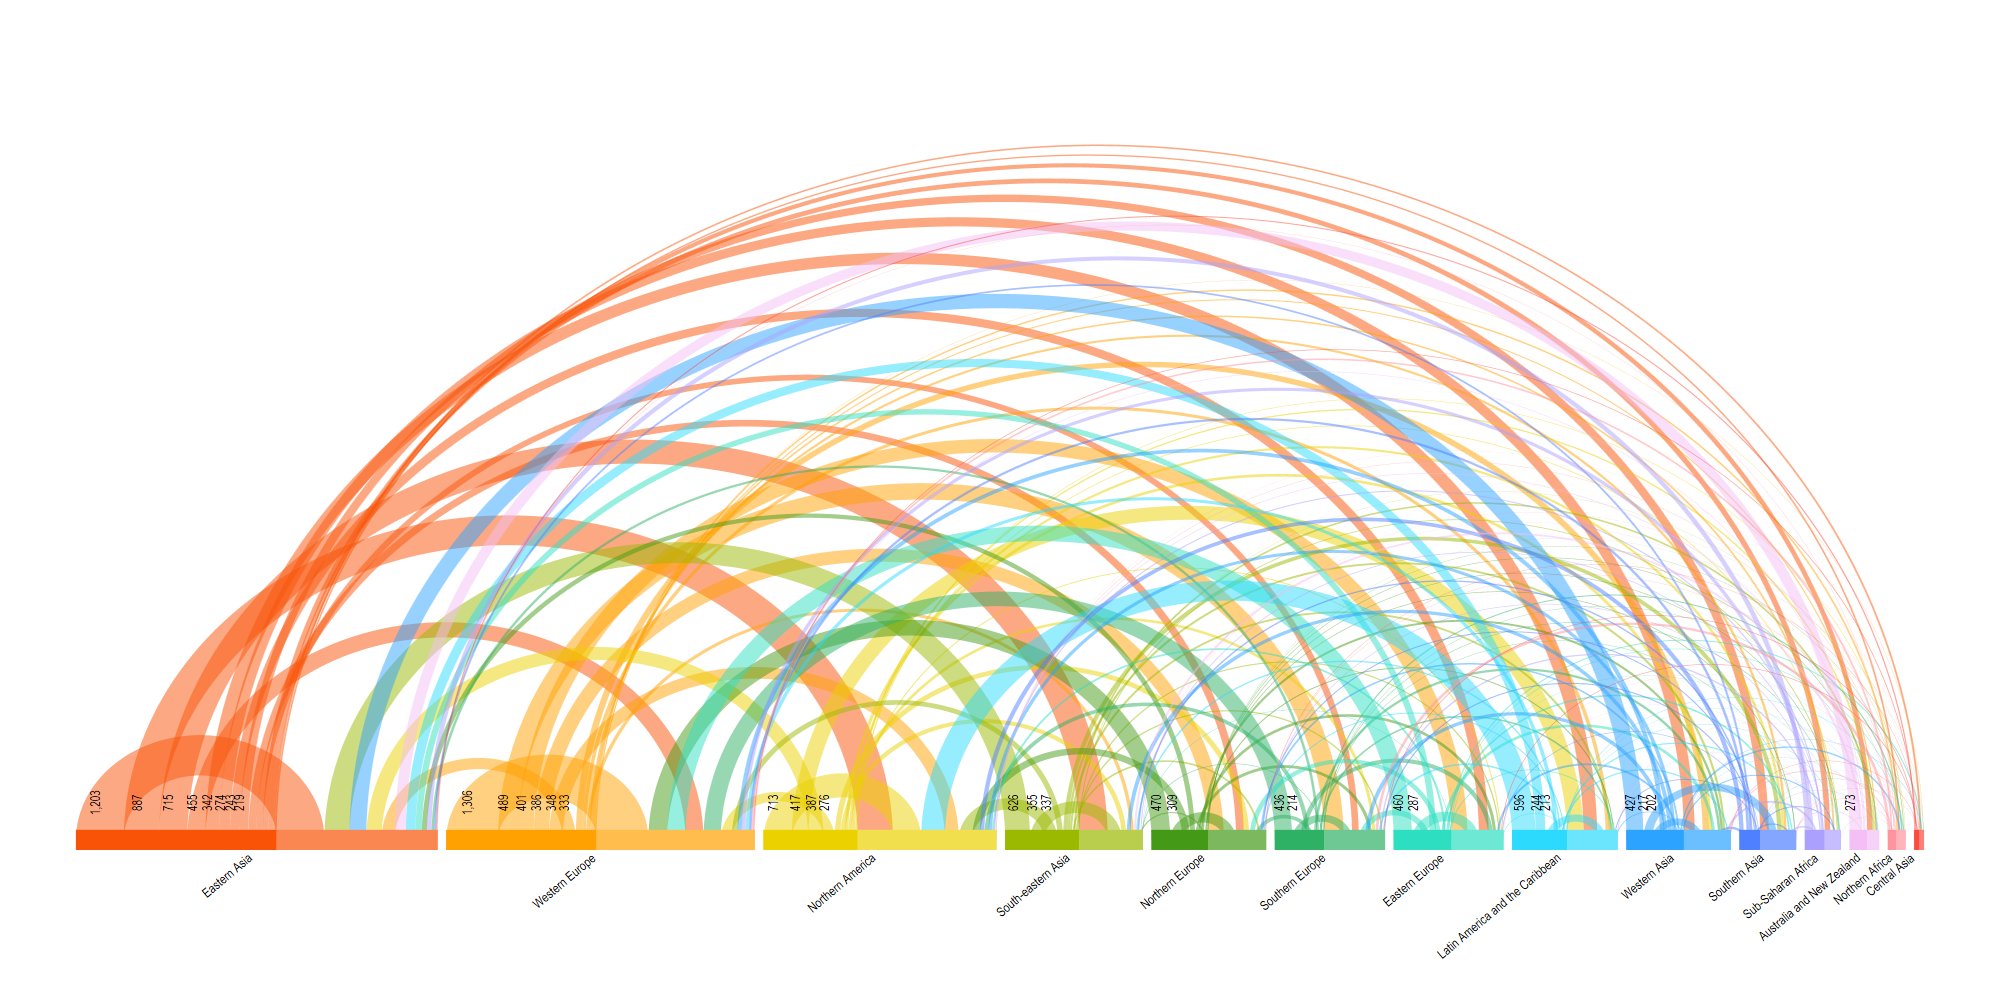
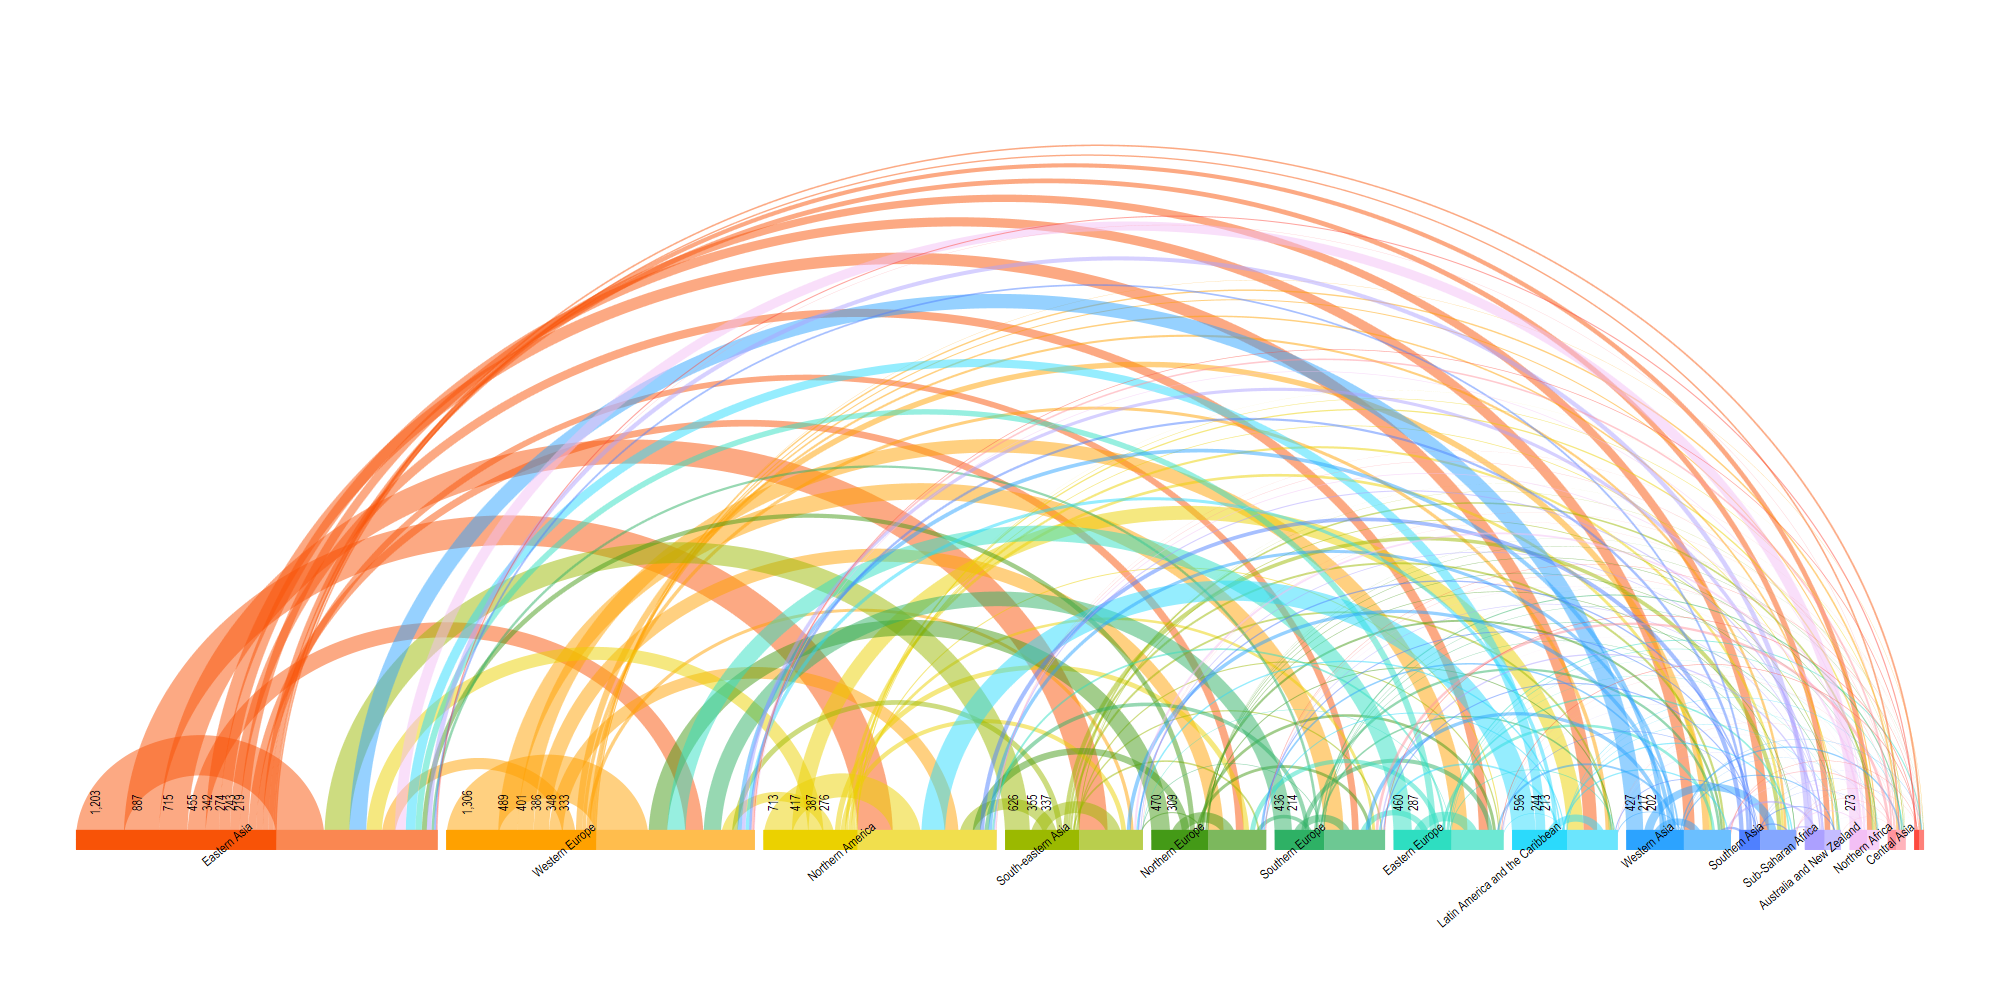
v1.5 minor updates

diff --git a/README.md b/README.md
@@ -196,7 +196,7 @@ Baseline graph without split:
 ```stata
 arcplot value, from(ex_region) to(im_region) ///
     sort(value) valcond(1000) aspect(0.46) ///
-	gap(1) labsize(3) labangle(45) valsize(2.4) format(%10.0fc)	laboffset(0.02) ///
+	gap(1) labsize(3) labangle(45) valsize(2.4) format(%10.0fc)	 ///
 	plotregion(margin(b+5)) ///
 	title("Regional trade in 2022 (USD millions)", size(6)) ///
 	note("Source: COMTRADE-BACI", size(2) span) 
@@ -217,7 +217,7 @@ A formatted split graph:
 ```stata
 arcplot value, from(ex_region) to(im_region) split(split_europe) ///
     sort(value) valcond(1000)  ///
-	gap(1) labsize(2) labangle(45) valsize(1.6) format(%10.0fc)	laboffset(0.02) ///
+	gap(1) labsize(2) labangle(45) valsize(1.6) format(%10.0fc)	 ///
 	valoffset(0.04) ///
 	aspect(0.9) xsize(3) ysize(3)	///
 	title("Regional trade in 2022 (USD millions)", size(6)) ///